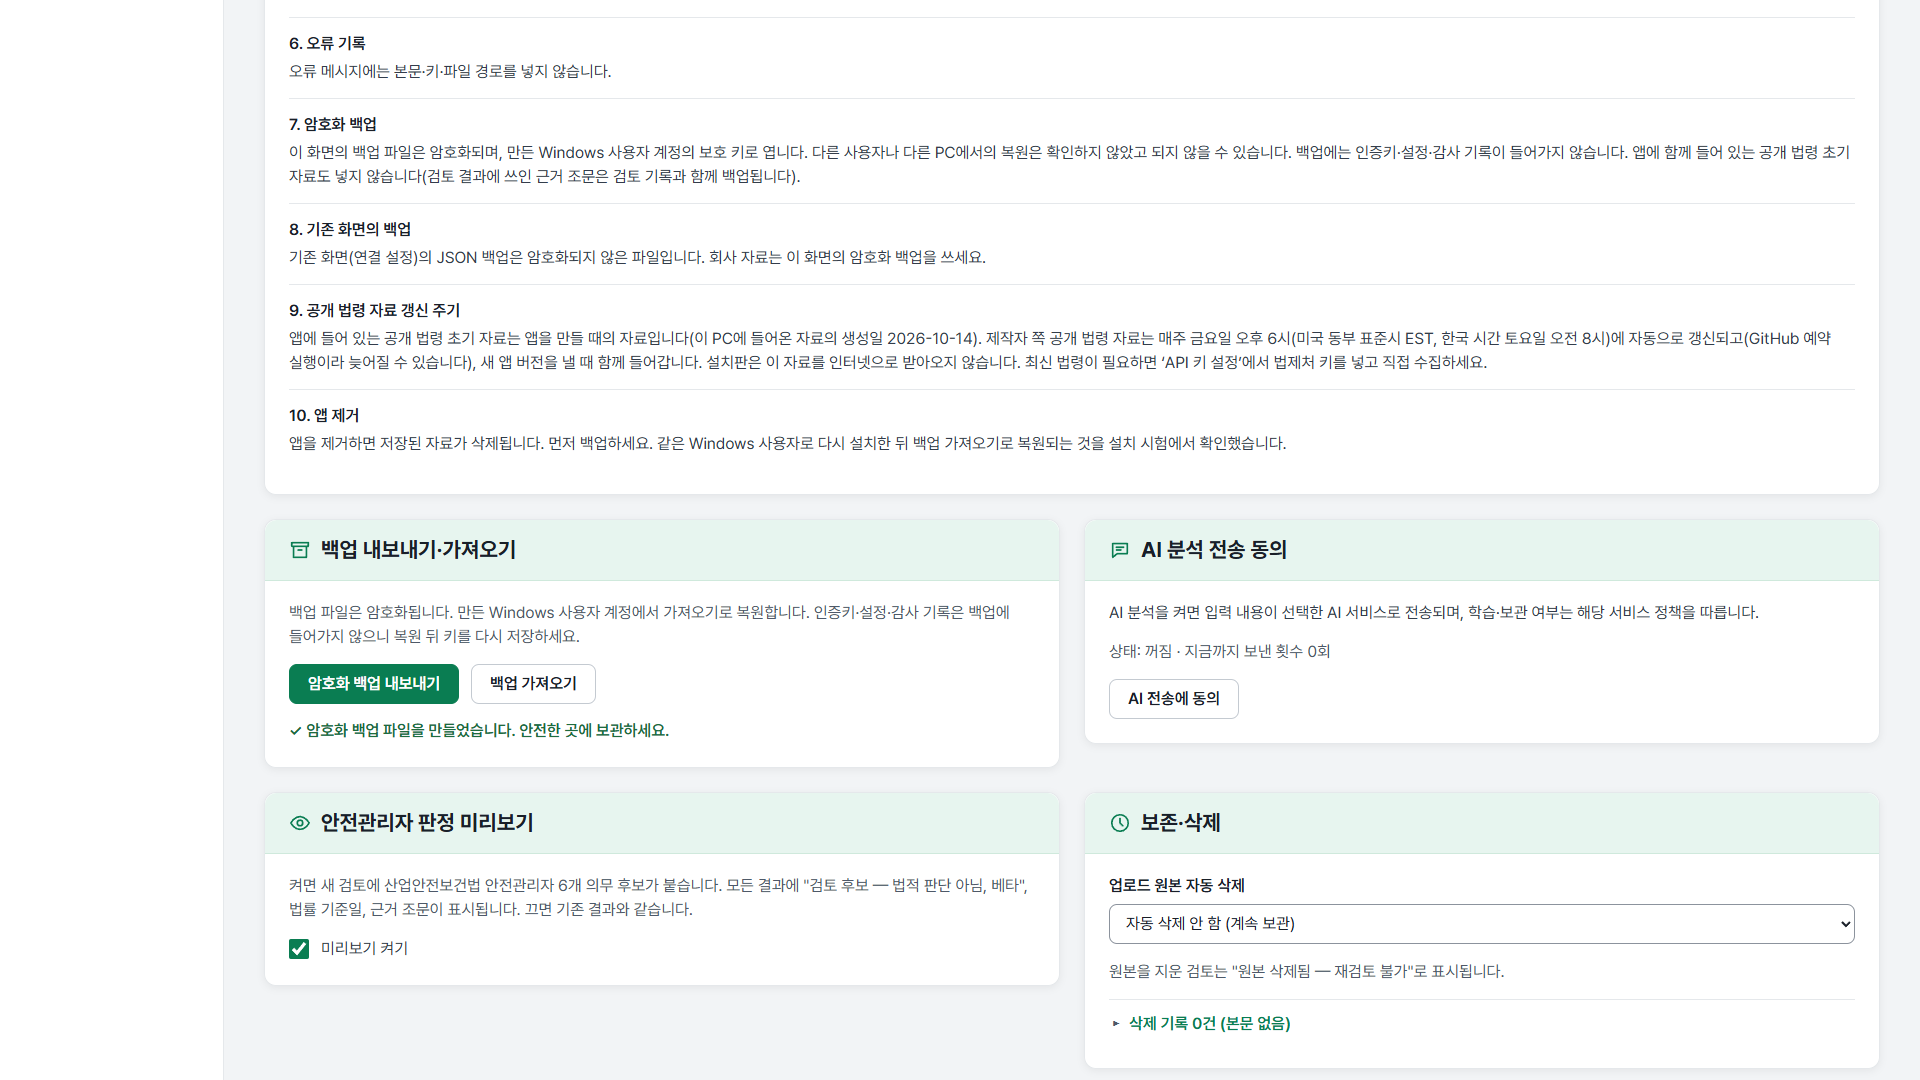
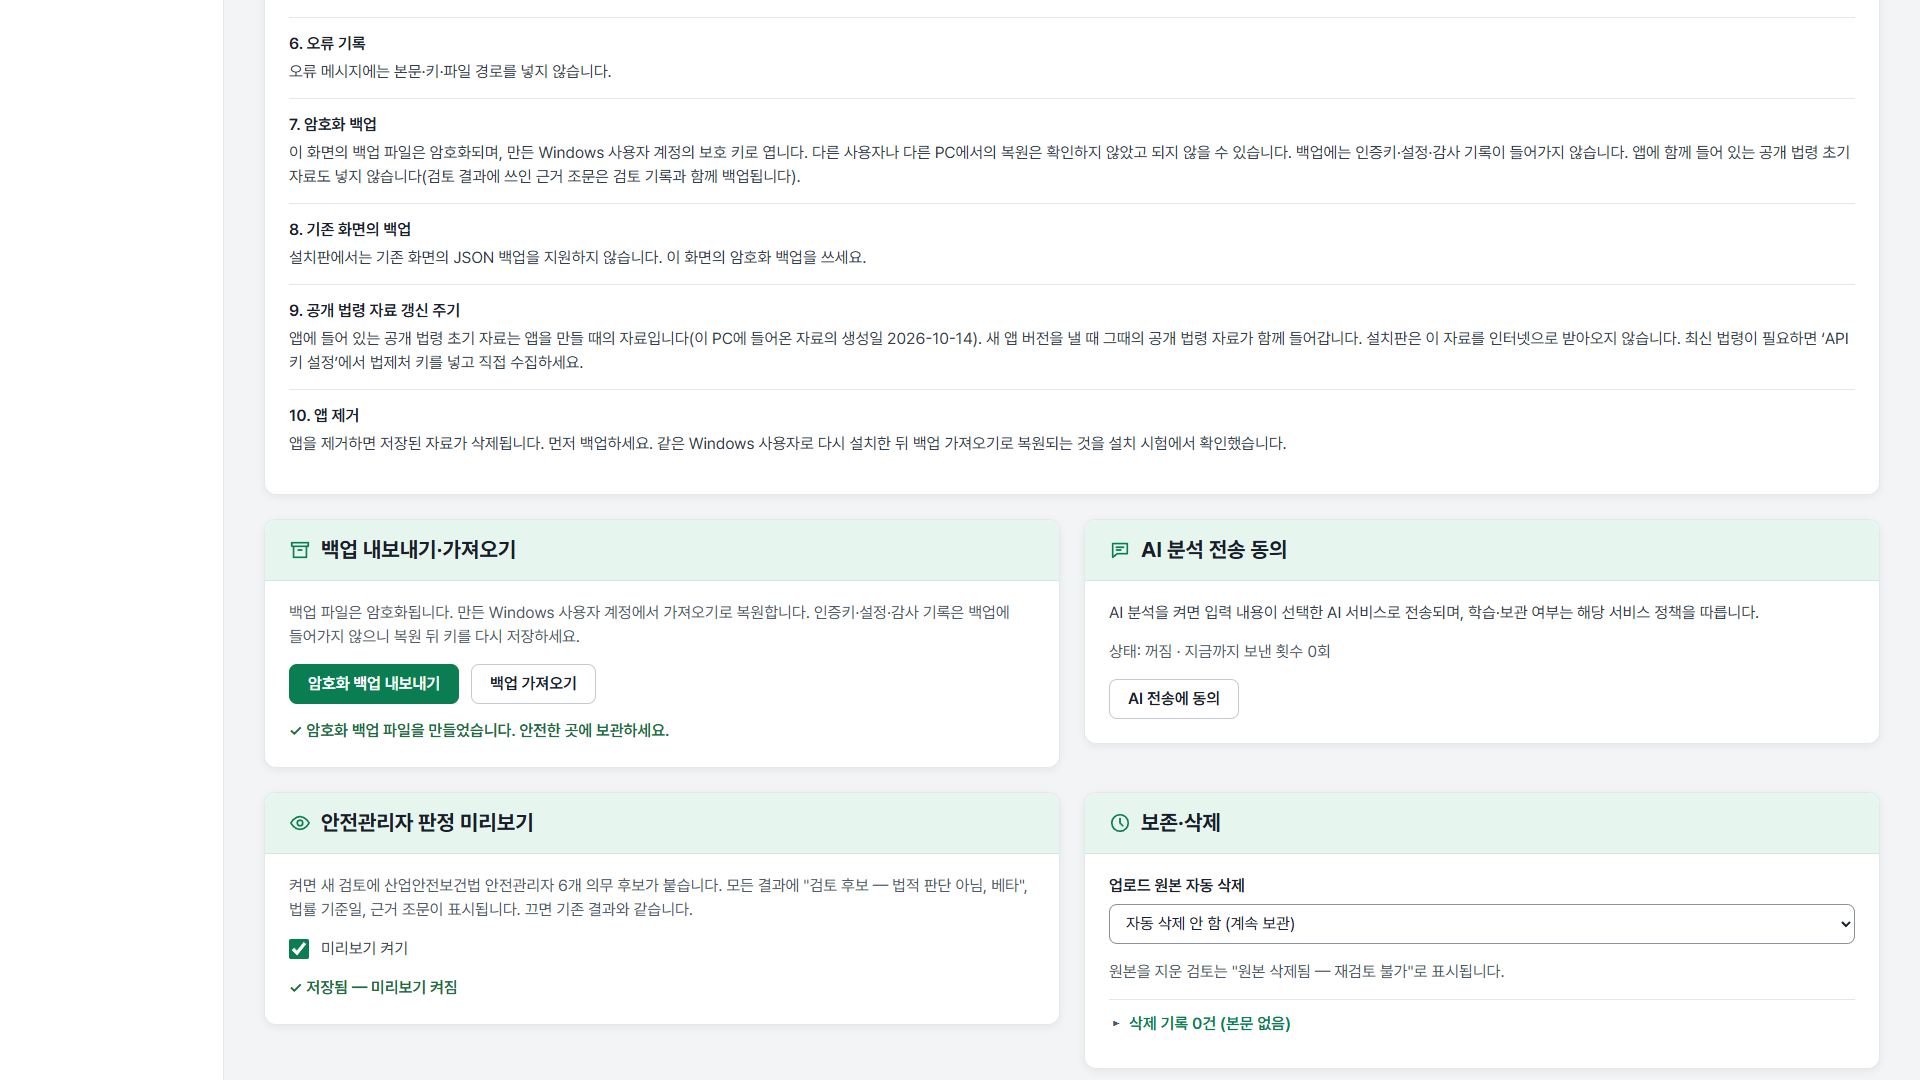
docs(store): re-capture screenshot 05 with the 0.8.3.0 notice texts (#39)

diff --git a/docs/implementation-v8/stage5-store/screenshots/README.md b/docs/implementation-v8/stage5-store/screenshots/README.md
@@ -3,6 +3,7 @@
 - 크기: 1920x1080 PNG 6장 (뷰포트 1920x1080, 배율 1, 전체 페이지 아님, 한국어 로캘)
 - 합성 자료로 촬영: 가상 사업장 "가상 제조(주)", 합성 첨부 파일 1개, 사실 보완 답도 합성 문구. 실제 회사 자료·API 키 없음(키 전부 미연결).
 - 촬영일: 2026-10-15 (화면 기준: main `079f4e3` — 사용자 디자인 반영 베타 화면. 6장 모두 다시 촬영)
+- `05-backup.png`만 2026-10-17에 main `3300314`(0.8.3.0) 화면으로 다시 촬영: 데이터 처리 안내 8번(설치판 문구)과 9번(주간 자동 갱신 문장 삭제)이 바뀌었기 때문. 설치판 실행 토큰을 첫 주소로 넘기는 `.local/store-shots/capture-05-v4.mjs` 사용, 외부 요청 0·페이지 오류 0
 - 촬영 방법: 새 임시 자료 폴더(`SHE_DATA_DIR`)·`SHE_INSTALLED=1`·키 없음·서버 외부 요청 차단(`.local/store-shots/no-net.mjs`)으로 서버를 띄우고 `.local/store-shots/capture-store-v3.mjs`(Playwright, Edge 헤드리스)로 `/beta/` 화면을 찍음 — 서버·브라우저 모두 외부 요청 0건, 화면 오류 0건. 촬영 뒤 서버 종료, 임시 자료 폴더 삭제.
 - 화면 조작은 클릭·입력·스크롤 같은 사용자 동작만 했다(안전관리자 판정 미리보기는 데이터·백업 화면의 스위치로 켬). 6장 모두 눈으로 확인했다. 경로·사용자 이름·메일 주소·오류 문구는 보이지 않는다.
 
@@ -12,7 +13,7 @@
 | `02-new-review.png` | 법률 조회 | 업무 상황 입력(글자 수 안내), 시·도/시·군·구/기준일, 합성 첨부 자료 선택, AI 분석 안내, 검토 시작 버튼, 옆의 검토 기록 1건 |
 | `03-api-keys.png` | API 키 설정 (위) | 안내 문구, 법제처 OC·공공데이터포털·도로명주소 키 모두 "미연결 — 수집 안 됨"(점선 표시), 발급처, 저장 버튼이 비활성인 이유 |
 | `04-ai-link.png` | API 키 설정 (아래) | 도로명주소 키와 서비스 표(미연결), 법령 수집(자동 수집 꺼짐, 키가 없어 수집할 수 없는 이유), AI 연동("ChatGPT 연결하기", "아직 미연동된 상태입니다") |
-| `05-backup.png` | 데이터·백업 | 데이터 처리 안내 6~10번 항목, 암호화 백업 내보내기 완료 문구, 백업 가져오기, AI 분석 전송 동의(꺼짐), 안전관리자 판정 미리보기(켜짐, 설명에 "검토 후보 — 법적 판단 아님, 베타"), 보존·삭제 |
+| `05-backup.png` | 데이터·백업 | 데이터 처리 안내 6~10번 항목, 암호화 백업 내보내기 완료 문구, 백업 가져오기, AI 분석 전송 동의(꺼짐), 안전관리자 판정 미리보기(켜짐·"저장됨 — 미리보기 켜짐", 설명에 "검토 후보 — 법적 판단 아님, 베타"), 보존·삭제 |
 | `06-fact-check.png` | 검토 결과 — 사실 보완 | 왼쪽 목록에서 사실 보완 선택, 검토에 쓴 사실 표, "더 알려 주면 좋은 사실" 6개에 합성 답 입력(제출 안 함), 보완해서 다시 검토 버튼, 접힌 "근거 확인이 필요한 부분" |
 
 - "검토 후보 — 법적 판단 아님, 베타" 문구가 화면 안에 보이는 장: 01(제목 옆 괄호 안내), 05(미리보기 설명). 02·03·04·06에는 없다 — 사용자 디자인에 따라 프로그램의 베타 문구는 결과 화면의 제목 안내와 카드 표시("검토 후보 · 베타")에만 있고, 06은 결과 화면을 목록 위치까지 내려 찍어 제목 안내가 화면 밖에 있다.
